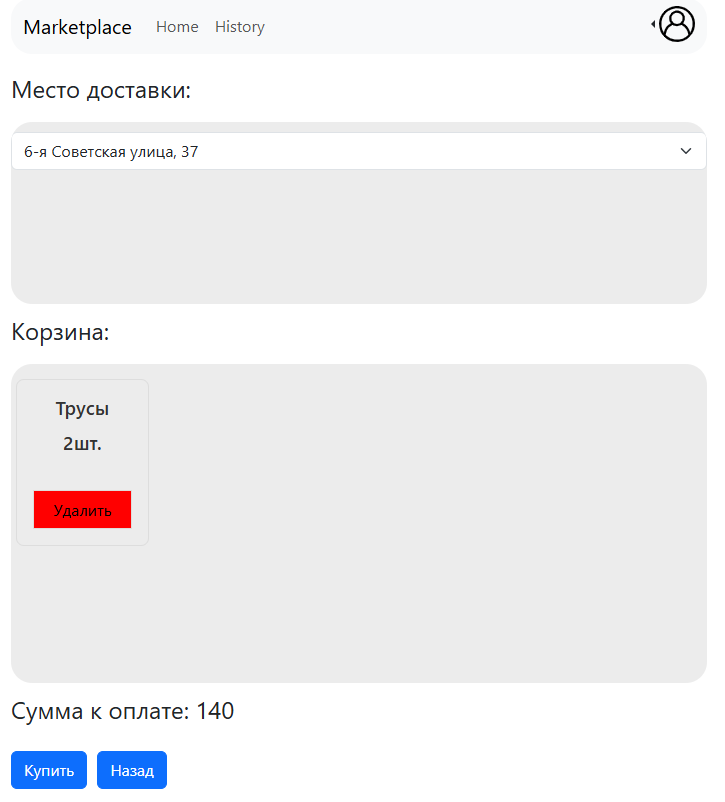
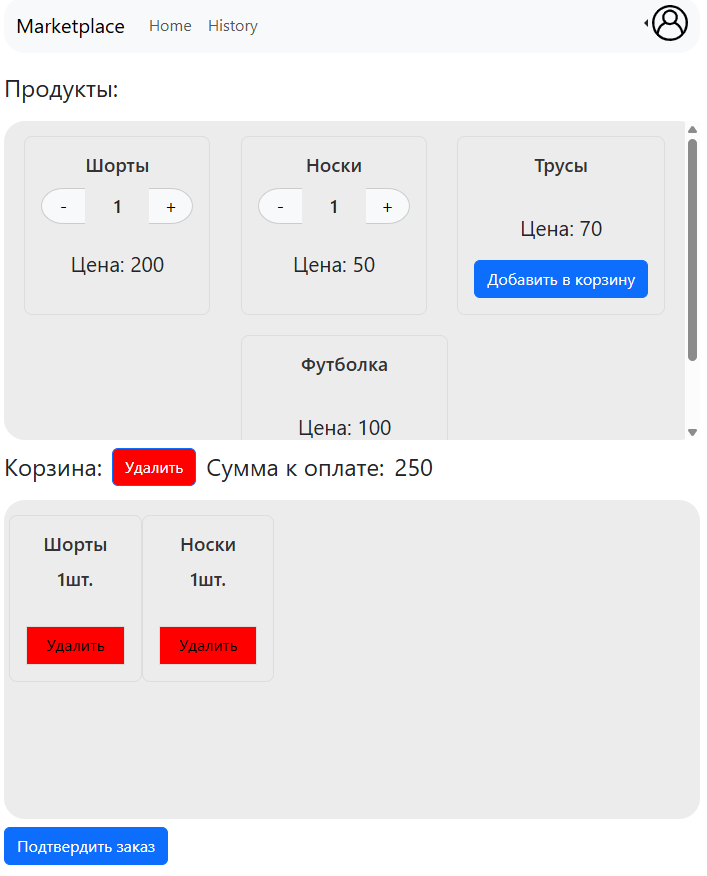
update readme

diff --git a/README.md b/README.md
@@ -2,7 +2,7 @@
 Asp.net Core проект маркетплейса с микросервисной архитектурой.
 
 Стэк:
-ASP.NET Core 8, PostgreSQL, Apache Kafka, Redis, REST и gRPC, JWT Auth.
+ASP.NET Core 8, PostgreSQL, RabbitMQ, Redis, REST и gRPC, JWT Auth.
 Проект был разработан с DDD и Clean architecture, полностью упакован в docker-compose.
 - Для отказоустойчивости используется паттерн Outbox.
 - Оркестрация осуществляется паттреном SAGA.
@@ -15,20 +15,24 @@ ASP.NET Core 8, PostgreSQL, Apache Kafka, Redis, REST и gRPC, JWT Auth.
 Ниже приведены экраны приложения:
 
 Экран авторизации.
-![img_3.png](images/img_3.png)
+
+![img_auth.png](images/img_auth.png)
 
 Экран каталога товаров и корзины.
-![img.png](images/img.png)
 
-Экран оформления заказа.
 ![img_1.png](images/img_1.png)
 
-Экран осуществленных покупок.
+Экран оформления заказа.
+
 ![img_2.png](images/img_2.png)
+
+Экран осуществленных покупок.
+
+![img_3.png](images/img_3.png)
 
 
 This repo contains docker-compose file, so if you have installed docker in your computer:
 1) run "docker-compose up -d"
-2) go to "http://localhost:3000/"
+2) go to "http://localhost:5173/"
 3) login with user "patochin@gmail.com" and password "12345"
 4) enjoy it !!!
